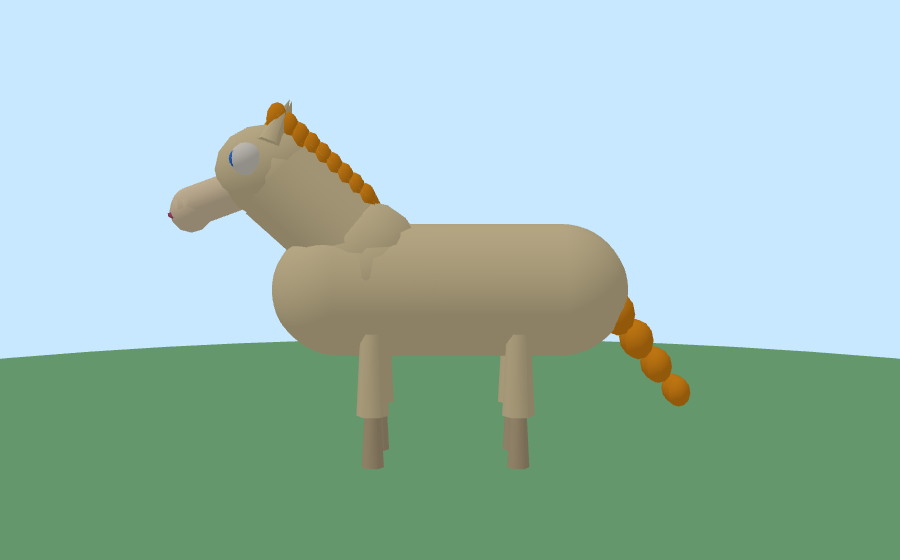
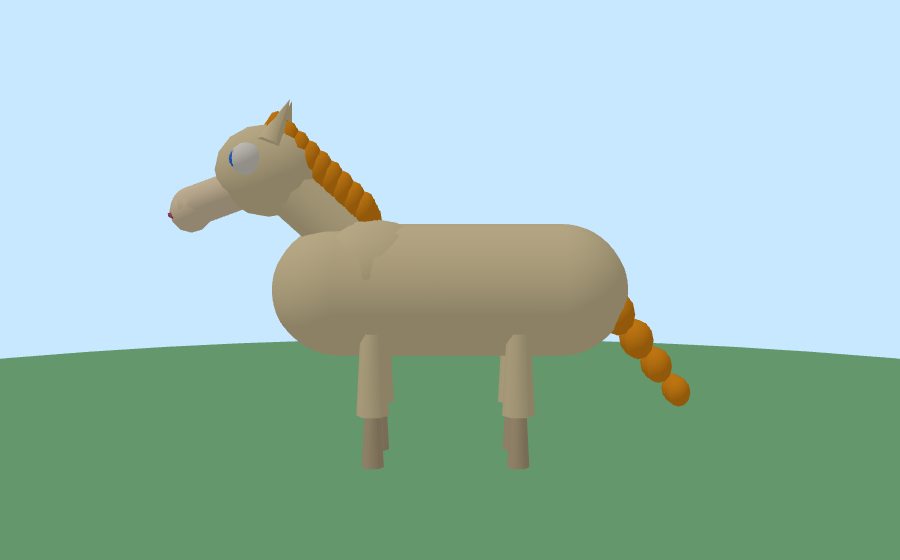
Stables: slim pony neck to ~60% thickness (build 2026.11.09-22)
Neck tube/joints tapered from a modest chest blend to roughly the back-of-head width so the side view is no longer a head-wide wedge. Mane stays along the slimmer ridge; attach/seat/jump behavior unchanged. Re-rendered side view.

Changed region(s): [[0.28, 0.1821, 0.4667, 0.4554]]

diff --git a/index.html b/index.html
@@ -1418,7 +1418,7 @@ const $ = s => document.querySelector(s);
 const $$ = s => [...document.querySelectorAll(s)];
 const COLORS = ['#ff4d5e','#ff9f1c','#ffd23f','#2ec27e','#3a86ff','#8b5cf6','#ff6fb5','#ffffff','#2d2d2d','#8d5524','#f1c27d','#ffdbac'];
 // Bump BUILD on every deploy (version.json next to index.html must match). Old cached pages compare and refresh themselves.
-const BUILD = '2026.11.09-21';
+const BUILD = '2026.11.09-22';
 function checkUpdate(why){
   if (location.protocol === 'file:') return Promise.resolve(false);
   return fetch('version.json?t=' + Date.now(), {cache: 'no-store'}).then(r => r.ok ? r.json() : null).then(j => {
@@ -10894,7 +10894,7 @@ const Obby = (() => {
     ic.lv = Math.max(1, Math.min(99, d.lv | 0 || 1)); (Array.isArray(d.ev) ? d.ev : []).forEach(e => icEvent(e));
   }
   function icGuestMsg(g, d){ if (!ic || ic.remote || !d) return; icApply(g, d); }
-  /* ===================== t237u: 🐴 pony silhouette — short angled neck, fluffy mane, horse head ===================== */
+  /* ===================== t238u: 🐴 pony silhouette — slimmer short neck + mane ===================== */
   const SB_KEY = 'rubloxStable', SB_DRAIN = 25, SB_MOUNT_CD = .85;
   const SB_HIP = 1.32; // avatar pivot ≈ this above P.y — used to place hips on saddleTop
   const SB_PONIES = [
@@ -10954,10 +10954,10 @@ const Obby = (() => {
     const local = [base, mid, tip].map(p => V3(p.x - base.x, p.y - base.y, p.z - base.z));
     const curve = new THREE.CatmullRomCurve3(local);
     // Wide at chest → slightly narrower at head (still thick)
-    const tubeWide = new THREE.Mesh(new THREE.TubeGeometry(curve, 20, .34, 10, false), coat); neck.add(tubeWide);
-    const tubeCore = new THREE.Mesh(new THREE.TubeGeometry(curve, 20, .28, 10, false), coat); neck.add(tubeCore);
-    const jointBase = new THREE.Mesh(new THREE.SphereGeometry(.40, 10, 8), coat); jointBase.position.set(0, 0, 0); neck.add(jointBase);
-    const jointTop = new THREE.Mesh(new THREE.SphereGeometry(.30, 10, 8), coat);
+    const tubeWide = new THREE.Mesh(new THREE.TubeGeometry(curve, 20, .20, 10, false), coat); neck.add(tubeWide);
+    const tubeCore = new THREE.Mesh(new THREE.TubeGeometry(curve, 20, .17, 10, false), coat); neck.add(tubeCore);
+    const jointBase = new THREE.Mesh(new THREE.SphereGeometry(.26, 10, 8), coat); jointBase.position.set(0, 0, 0); neck.add(jointBase);
+    const jointTop = new THREE.Mesh(new THREE.SphereGeometry(.18, 10, 8), coat);
     jointTop.position.x = local[2].x; jointTop.position.y = local[2].y; jointTop.position.z = local[2].z; neck.add(jointTop);
 
     // HEAD — elongated horse shape, parented to neck tip
@@ -10990,7 +10990,7 @@ const Obby = (() => {
     for (let i = 0; i < 9; i++){
       const t = i / 8;
       const pt = curve.getPoint ? curve.getPoint(t) : local[Math.min(2, Math.floor(t * 2))];
-      const px = pt.x || 0, py = (pt.y || 0) + .22, pz = pt.z || 0;
+      const px = pt.x || 0, py = (pt.y || 0) + .16, pz = pt.z || 0;
       const tuft = new THREE.Group(); tuft.position.set(px, py, pz); neck.add(tuft);
       for (let k = 0; k < 3; k++){
         const blob = new THREE.Mesh(new THREE.SphereGeometry(.13 - k * .02, 6, 6), maneM);

diff --git a/dev/stable/stable.js b/dev/stable/stable.js
@@ -1,4 +1,4 @@
-  /* ===================== t237u: 🐴 pony silhouette — short angled neck, fluffy mane, horse head ===================== */
+  /* ===================== t238u: 🐴 pony silhouette — slimmer short neck + mane ===================== */
   const SB_KEY = 'rubloxStable', SB_DRAIN = 25, SB_MOUNT_CD = .85;
   const SB_HIP = 1.32; // avatar pivot ≈ this above P.y — used to place hips on saddleTop
   const SB_PONIES = [
@@ -58,10 +58,10 @@
     const local = [base, mid, tip].map(p => V3(p.x - base.x, p.y - base.y, p.z - base.z));
     const curve = new THREE.CatmullRomCurve3(local);
     // Wide at chest → slightly narrower at head (still thick)
-    const tubeWide = new THREE.Mesh(new THREE.TubeGeometry(curve, 20, .34, 10, false), coat); neck.add(tubeWide);
-    const tubeCore = new THREE.Mesh(new THREE.TubeGeometry(curve, 20, .28, 10, false), coat); neck.add(tubeCore);
-    const jointBase = new THREE.Mesh(new THREE.SphereGeometry(.40, 10, 8), coat); jointBase.position.set(0, 0, 0); neck.add(jointBase);
-    const jointTop = new THREE.Mesh(new THREE.SphereGeometry(.30, 10, 8), coat);
+    const tubeWide = new THREE.Mesh(new THREE.TubeGeometry(curve, 20, .20, 10, false), coat); neck.add(tubeWide);
+    const tubeCore = new THREE.Mesh(new THREE.TubeGeometry(curve, 20, .17, 10, false), coat); neck.add(tubeCore);
+    const jointBase = new THREE.Mesh(new THREE.SphereGeometry(.26, 10, 8), coat); jointBase.position.set(0, 0, 0); neck.add(jointBase);
+    const jointTop = new THREE.Mesh(new THREE.SphereGeometry(.18, 10, 8), coat);
     jointTop.position.x = local[2].x; jointTop.position.y = local[2].y; jointTop.position.z = local[2].z; neck.add(jointTop);
 
     // HEAD — elongated horse shape, parented to neck tip
@@ -94,7 +94,7 @@
     for (let i = 0; i < 9; i++){
       const t = i / 8;
       const pt = curve.getPoint ? curve.getPoint(t) : local[Math.min(2, Math.floor(t * 2))];
-      const px = pt.x || 0, py = (pt.y || 0) + .22, pz = pt.z || 0;
+      const px = pt.x || 0, py = (pt.y || 0) + .16, pz = pt.z || 0;
       const tuft = new THREE.Group(); tuft.position.set(px, py, pz); neck.add(tuft);
       for (let k = 0; k < 3; k++){
         const blob = new THREE.Mesh(new THREE.SphereGeometry(.13 - k * .02, 6, 6), maneM);

diff --git a/dev/stable/renders/pony-side.html b/dev/stable/renders/pony-side.html
@@ -27,10 +27,10 @@ const base=new THREE.Vector3(0,1.40,.58), mid=new THREE.Vector3(0,1.68,.88), tip
 const neck=new THREE.Group(); neck.position.copy(base); g.add(neck);
 const local=[base,mid,tip].map(function(p){ return new THREE.Vector3().subVectors(p,base); });
 const curve=new THREE.CatmullRomCurve3(local);
-neck.add(new THREE.Mesh(new THREE.TubeGeometry(curve,20,.34,10,false), mat(coat)));
-neck.add(new THREE.Mesh(new THREE.TubeGeometry(curve,20,.28,10,false), mat(coat)));
-neck.add(new THREE.Mesh(new THREE.SphereGeometry(.40,10,8), mat(coat)));
-const jt=new THREE.Mesh(new THREE.SphereGeometry(.30,10,8), mat(coat)); jt.position.copy(local[2]); neck.add(jt);
+neck.add(new THREE.Mesh(new THREE.TubeGeometry(curve,20,.20,10,false), mat(coat)));
+neck.add(new THREE.Mesh(new THREE.TubeGeometry(curve,20,.17,10,false), mat(coat)));
+neck.add(new THREE.Mesh(new THREE.SphereGeometry(.26,10,8), mat(coat)));
+const jt=new THREE.Mesh(new THREE.SphereGeometry(.18,10,8), mat(coat)); jt.position.copy(local[2]); neck.add(jt);
 const head=new THREE.Group(); head.position.copy(local[2]); neck.add(head);
 const skull=new THREE.Mesh(new THREE.SphereGeometry(.32,10,8), mat(coat)); skull.scale.set(.95,1,1.15); skull.position.set(0,.06,.08); head.add(skull);
 const muzzle=new THREE.Mesh(new THREE.CapsuleGeometry(.14,.42,5,8), mat(soft));
@@ -47,7 +47,7 @@ smile.position.set(0,-.28,.68); smile.rotation.set(1.15,0,0); head.add(smile);
 });
 for(var i=0;i<9;i++){
   var t=i/8, pt=curve.getPoint(t);
-  var tuft=new THREE.Group(); tuft.position.set(pt.x, pt.y+.22, pt.z); neck.add(tuft);
+  var tuft=new THREE.Group(); tuft.position.set(pt.x, pt.y+.16, pt.z); neck.add(tuft);
   for(var k=0;k<3;k++){
     var blob=new THREE.Mesh(new THREE.SphereGeometry(.13-k*.02,6,6), mat(mane));
     blob.position.set((k-1)*.07, .08+k*.05, 0); blob.scale.set(1.1,1.35,.9); tuft.add(blob);

diff --git a/dev/stable/stable_logic.js b/dev/stable/stable_logic.js
@@ -36,6 +36,7 @@ chk('left-to-right brush < feed < groom', (() => { const m = Object.fromEntries(
 chk('rails are visual-only (no plat solids on gates)', W.A.sb.gates.length === W.A.SB_JUMPS && W.A.sb.gates.every(g => g.rail && g.posts));
 chk('adopt + visible mesh', W.A.sbAdopt('buttercup') && W.A.sb.mesh.visible);
 chk('pony has cartoon parts (legs/head/tail/saddle/neck/mane)', (() => { const p = W.A.sb.mesh.userData.parts; return p && p.legs && p.legs.length === 4 && p.head && p.tail && p.saddle && p.bridle && p.neck && p.saddleTop > 1.4 && p.maneTufts && p.maneTufts.length >= 6; })());
+chk('neck is slim (~head-back width, not head-wide wedge)', (() => { const src = SRC; return /TubeGeometry\(curve, 20, \.20/.test(src) && /SphereGeometry\(\.26/.test(src) && /SphereGeometry\(\.18/.test(src); })());
 chk('neck is short (not llama-tall)', W.A.sb.mesh.userData.parts.neckTop.y < 2.15 && W.A.sb.mesh.userData.parts.neckTop.y - W.A.sb.mesh.userData.parts.neckBase.y < .7, W.A.sb.mesh.userData.parts.neckTop);
 W.A.sbCare('groom'); chk('groom raises mood', W.A.sb.pony.mood >= 88);
 W.A.sbCare('feed');

diff --git a/dev/fashion/fashion_feedback_logic.js b/dev/fashion/fashion_feedback_logic.js
@@ -95,6 +95,6 @@ if (fs.existsSync(HTML)){
   chk('built page: feedback tag UI + Your feedback card', /id="fsRateTags"/.test(h) && /id="fsEndFb"/.test(h) && /FS_TAGS/.test(h) && /Your feedback/.test(h));
   chk('built page: fsrate accepts tags + wire tg', /d\.tags/.test(h) && /w\.tg/.test(h) && /fsNpcTags/.test(h));
   chk('built page: blank start helpers present', /function fsBlankAv/.test(h) && /never auto-wear/.test(h) && /bot: 'shorts'/.test(h));
-  chk('built page: rate countdown + build stamp visible', /id="fsRateCd"/.test(h) && /id="fsBuild"/.test(h) && /FS_WALK = 14/.test(h) && /2026\.11\.09-21/.test(h));
+  chk('built page: rate countdown + build stamp visible', /id="fsRateCd"/.test(h) && /id="fsBuild"/.test(h) && /FS_WALK = 14/.test(h) && /2026\.11\.09-22/.test(h));
 }
 console.log('RESULT', pass, '/', pass+fail); process.exit(fail?1:0);
